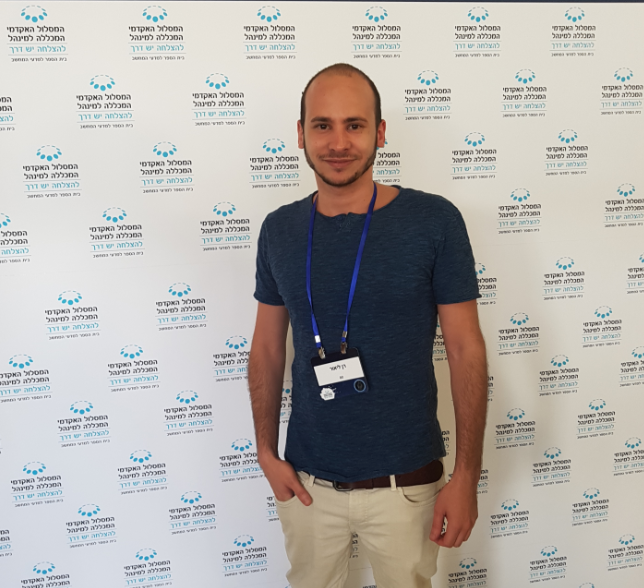
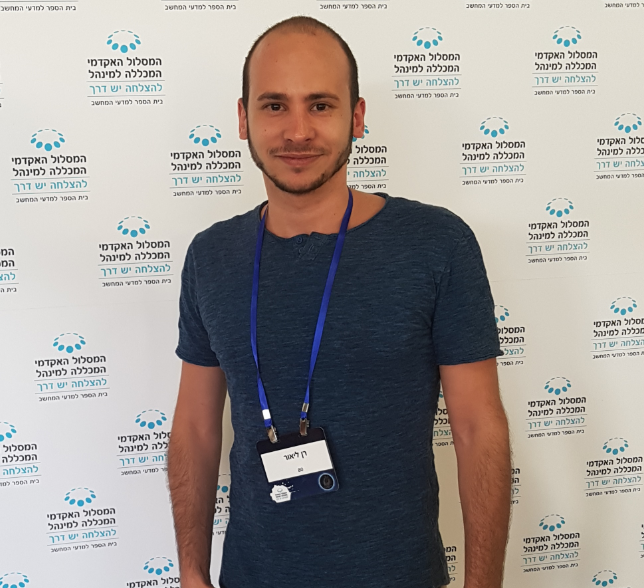
Google Map API added.

diff --git a/angular-src/src/app/components/shops-map/shops-map.component.html b/angular-src/src/app/components/shops-map/shops-map.component.html
@@ -1,42 +1,10 @@
 
-<div class="container">
-  <div class="row">
-    <div class="col-md-12">
-      <div class="map">
-        <sebm-google-map
-          [latitude]="lat"
-          [longitude]="lng"
-          [zoom]="zoom"
-          [disableDefaultUI]="false"
-          [zoomControl]="false"
-          (mapClick)="mapClicked($event)"
-        >
 
-          <sebm-google-map-marker
-            *ngFor="let m of markers;let i = index"
-            (markerClick)="clickedMarker(m, i)"
-            [latitude]="m.lat"
-            [longitude]="m.lng"
-            [markerDraggable]="m.draggable"
-            (dragEnd)="markerDragEnd(m, $event)"
-          >
-            <sebm-google-map-info-window>
-              <strong>{{m.name}}</strong>
-              <br>
-              <a class="delete" (click)="removeMarker(m)">Delete</a>
-            </sebm-google-map-info-window>
-          </sebm-google-map-marker>
-        </sebm-google-map>
-      </div>
-    </div>
-  </div>
-</div>
-
-<div class="row">
-  <div class="col-md-12">
-    <div class="panel panel-default">
+<div class="row" >
+  <div class="col-md-12" >
+    <div class="panel panel-default" style="background: transparent">
       <div class="panel-heading">
-        <h3 class="panel-title">Add New Marker</h3>
+        <h3 class="panel-title" >Add New Marker</h3>
       </div>
       <div class="panel-body">
         <form (submit)="addMarker()" >
@@ -61,4 +29,45 @@
 
   </div>
 
+</div>
+
+
+
+
+
+
+
+
+
+
+
+<div class="container">
+  <div class="row">
+    <div class="col-md-12">
+      <div class="map">
+        <sebm-google-map
+          [latitude]="lat"
+          [longitude]="lng"
+          [zoom]="zoom"
+          [disableDefaultUI]="false"
+          [zoomControl]="false"
+          (mapClick)="mapClicked($event)">
+
+          <sebm-google-map-marker
+            *ngFor="let m of markers;let i = index"
+            (markerClick)="clickedMarker(m, i)"
+            [latitude]="m.lat"
+            [longitude]="m.lng"
+            [markerDraggable]="m.draggable"
+            (dragEnd)="markerDragEnd(m, $event)">
+            <sebm-google-map-info-window>
+              <strong>{{m.name}}</strong>
+              <br>
+              <a class="delete" (click)="removeMarker(m)">Delete</a>
+            </sebm-google-map-info-window>
+          </sebm-google-map-marker>
+        </sebm-google-map>
+      </div>
+    </div>
+  </div>
 </div>

diff --git a/angular-src/src/app/components/about/about.component.html b/angular-src/src/app/components/about/about.component.html
@@ -30,7 +30,7 @@
     <div class="col-md-3 col-sm-3">
       <div class="team-member">
         <div class="team-img">
-          <img src="../../../shophomepage/photos/lior.png" alt="team member" class="img-responsive">
+          <img src="../../../shophomepage/photos/timi.png" alt="team member" class="img-responsive">
         </div>
         <div class="team-hover">
           <div class="desk">
@@ -38,7 +38,7 @@
             <p class="team-title">Software Engineer   WhiteSource</p>
           </div>
           <div class="s-link">
-            <a href="https://www.facebook.com/lior.ran.1"><i class="fa fa-facebook"></i></a>
+            <a href="https://www.facebook.com/artiom.petrov.1"><i class="fa fa-facebook"></i></a>
             <a href="#"><i class="fa fa-twitter"></i></a>
             <a href="#"><i class="fa fa-google-plus"></i></a>
           </div>

diff --git a/angular-src/src/app/components/navbar/navbar.component.html b/angular-src/src/app/components/navbar/navbar.component.html
@@ -38,6 +38,12 @@
         <li *ngIf="!authService.loggedIn()" [routerLinkActive]="['active']" [routerLinkActiveOptions] = "{exact:true}"><a [routerLink]="['/login']">Login</a></li>
         <li *ngIf="!authService.loggedIn()" [routerLinkActive]="['active']" [routerLinkActiveOptions] = "{exact:true}"><a [routerLink]="['/register']">Register</a></li>
         <li *ngIf="authService.loggedIn()"><a (click)="onLogoutClick()" href="#">Logout</a></li>
+        <li>
+          <iframe src="http://free.timeanddate.com/clock/i5rptunc/n676/fcaaa/tct/pct/tt0/tw0/tm1/ts1/tb4" frameborder="0" width="90" height="34" allowTransparency="true" ></iframe>
+        </li>
+
+
+
       </ul>
     </div><!--/.nav-collapse -->
   </div>

diff --git a/angular-src/src/app/components/footer/footer.component.html b/angular-src/src/app/components/footer/footer.component.html
@@ -4,7 +4,7 @@
         <header>
           <br />
           <div class="transDemo2" style="position:absolute; top:20px; left:30px;">
-            <h4 style="color:white">Copyright &copy; Lior Ran & Artium Petrov 2017 | The College of Management</h4>
+            <h4 style="color:white"> Lior Ran & Artium Petrov <Br>  The College of Management | Copyright &copy;  2017</h4>
           </div>
         </header>
       </section>

diff --git a/angular-src/src/app/components/home/home.component.html b/angular-src/src/app/components/home/home.component.html
@@ -7,6 +7,8 @@
     <div class="col-md-3">
      <!-- <p class="lead" style="color:white">Shop Name</p> -->
 <aside>
+
+
   <div class="list-group">
     <a href="#" class="list-group-item" style="background: transparent; width: 50%;  font-weight: bold;">Category 1</a>
     <a href="#" class="list-group-item" style="background: transparent; width: 50%;  font-weight: bold;">Category 2</a>

diff --git a/angular-src/src/app/components/about/about.component.css b/angular-src/src/app/components/about/about.component.css
@@ -74,13 +74,14 @@ body {
 
 .team-member, .team-member .team-img {
   position: relative;
-
 }
 .team-member {
   overflow: hidden;
+
 }
 .team-member, .team-member .team-img {
   position: relative;
+
 }
 
 .team-hover {

diff --git a/angular-src/src/app/components/shops-map/shops-map.component.ts b/angular-src/src/app/components/shops-map/shops-map.component.ts
@@ -42,8 +42,6 @@ export class ShopsMapComponent implements OnInit{
         //this.router.navigate(['/register']);
       }
     });
-
-
   }
 
   clickedMarker(marker:marker, index:number){

diff --git a/angular-src/src/styles.css b/angular-src/src/styles.css
@@ -1,1 +1,6 @@
 /* You can add global styles to this file, and also import other style files */
+
+/*CSS style for google maps*/
+.sebm-google-map-container {
+  height: 300px;
+}

diff --git a/angular-src/src/shophomepage/css/shop-homepage.css b/angular-src/src/shophomepage/css/shop-homepage.css
@@ -96,3 +96,4 @@ footer {
   background: #222;
   opacity: 0.5;
 }
+
